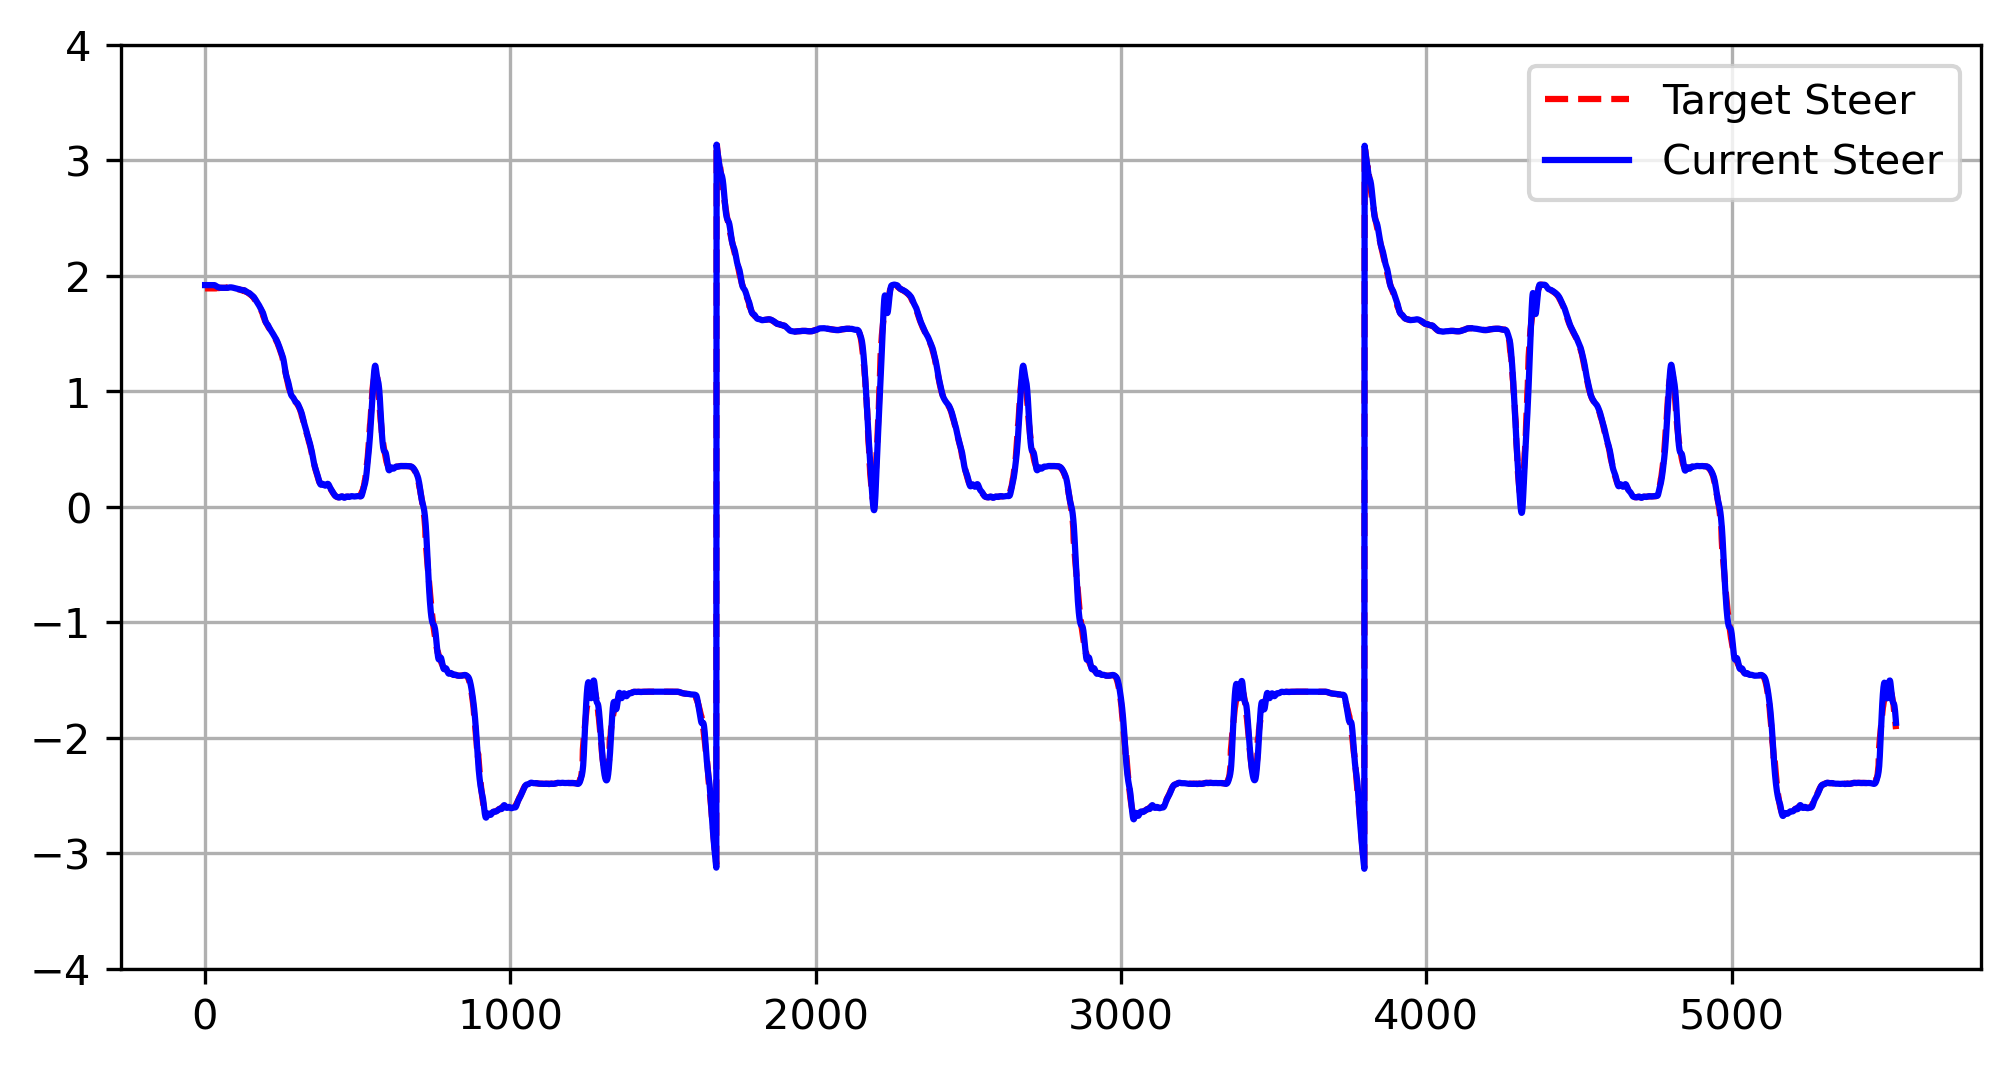
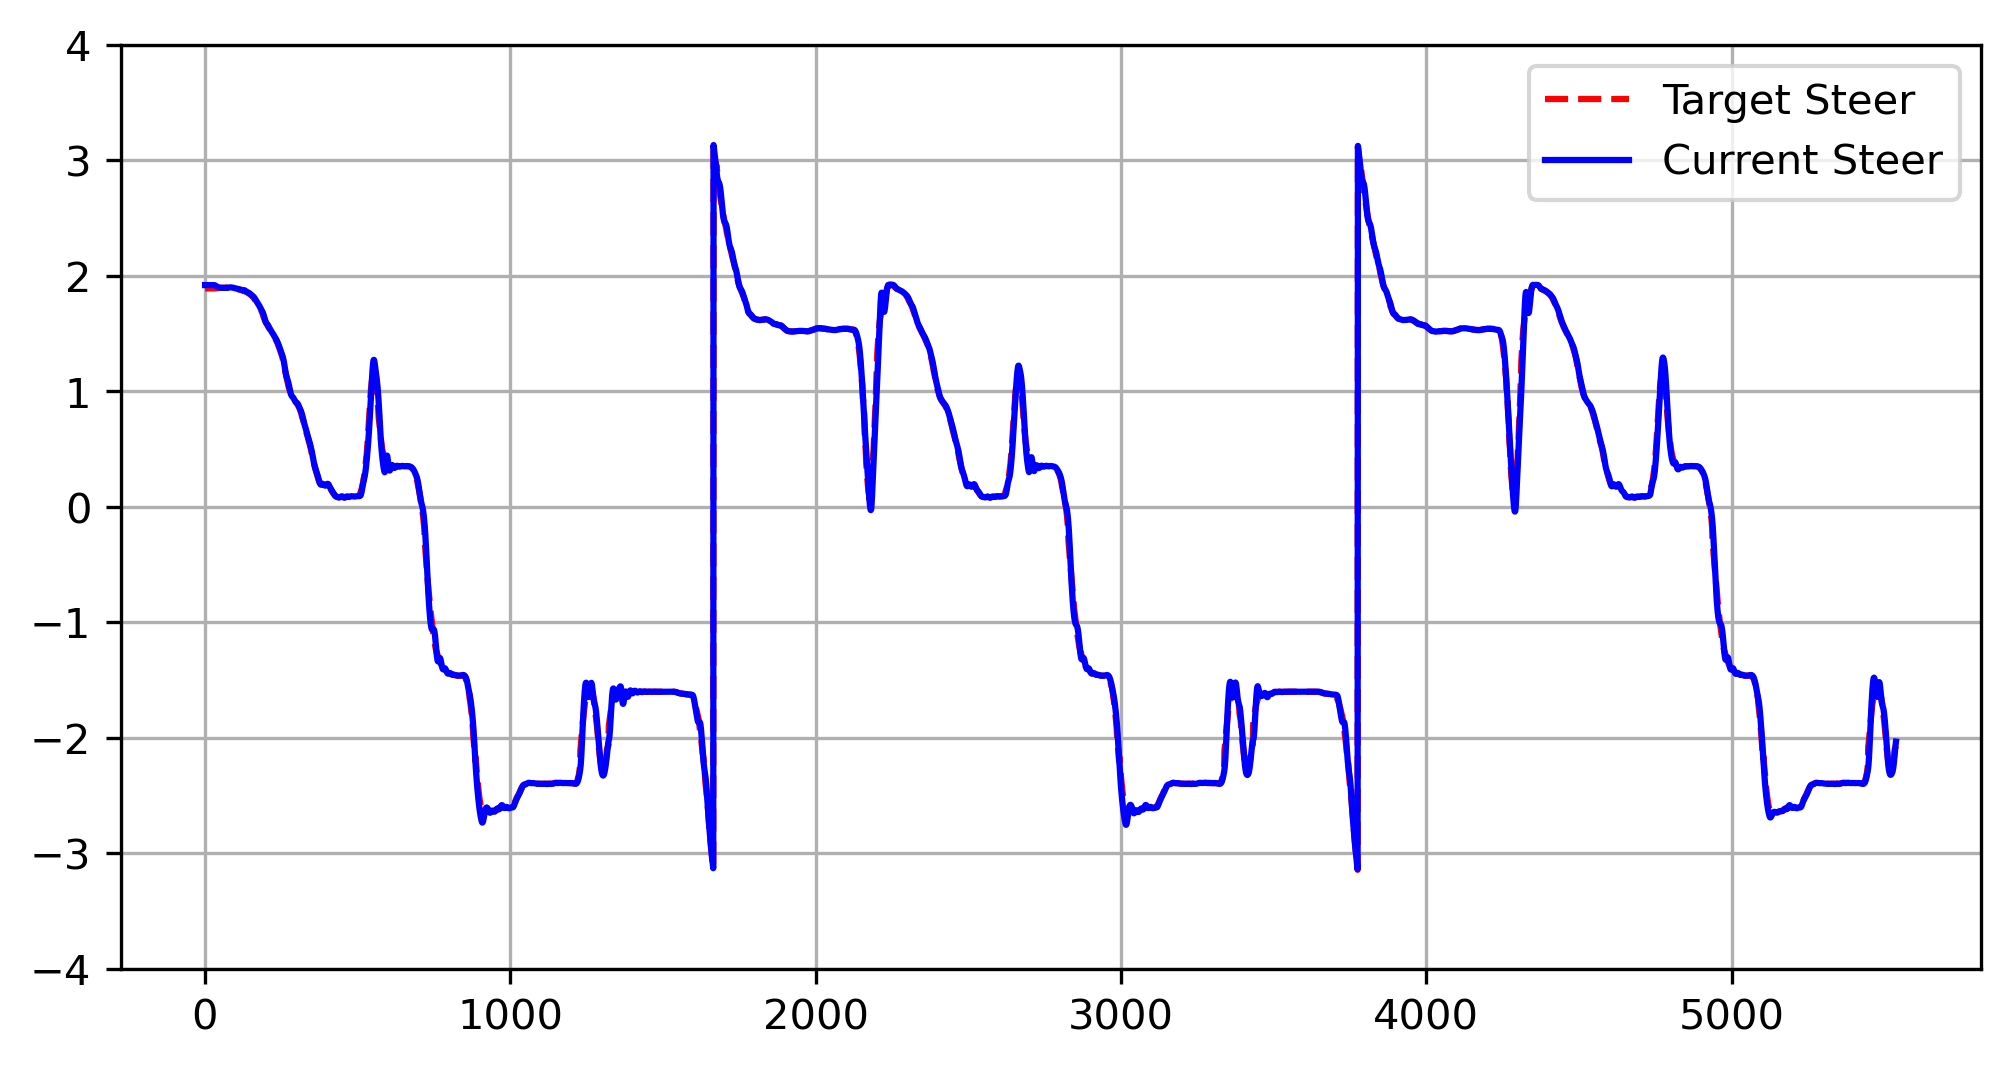
Improve 1400 turn

diff --git a/competition_code/util/Tuner.py b/competition_code/util/Tuner.py
@@ -18,6 +18,7 @@ class Tuner:
         (660, 700, 4), 
         (745, 838, 4), 
         (1300, 1325, 7), 
+        (1325, 1400, 2), 
         (1400, 1425, 7), 
         (1800, 1900, 9), 
         (2550, 2600, 2)
@@ -37,6 +38,7 @@ class Tuner:
         if (1855 <= waypoint <= 1900): return max(steer * 3.0, 0)
         if (830 <= waypoint < 860): return max(steer * 1.5, 0)
         if (860 <= waypoint <= 880): return steer * 0.4
+        if (1425 <= waypoint <= 1450): return min(steer, 0)
         return steer
 
     @staticmethod
